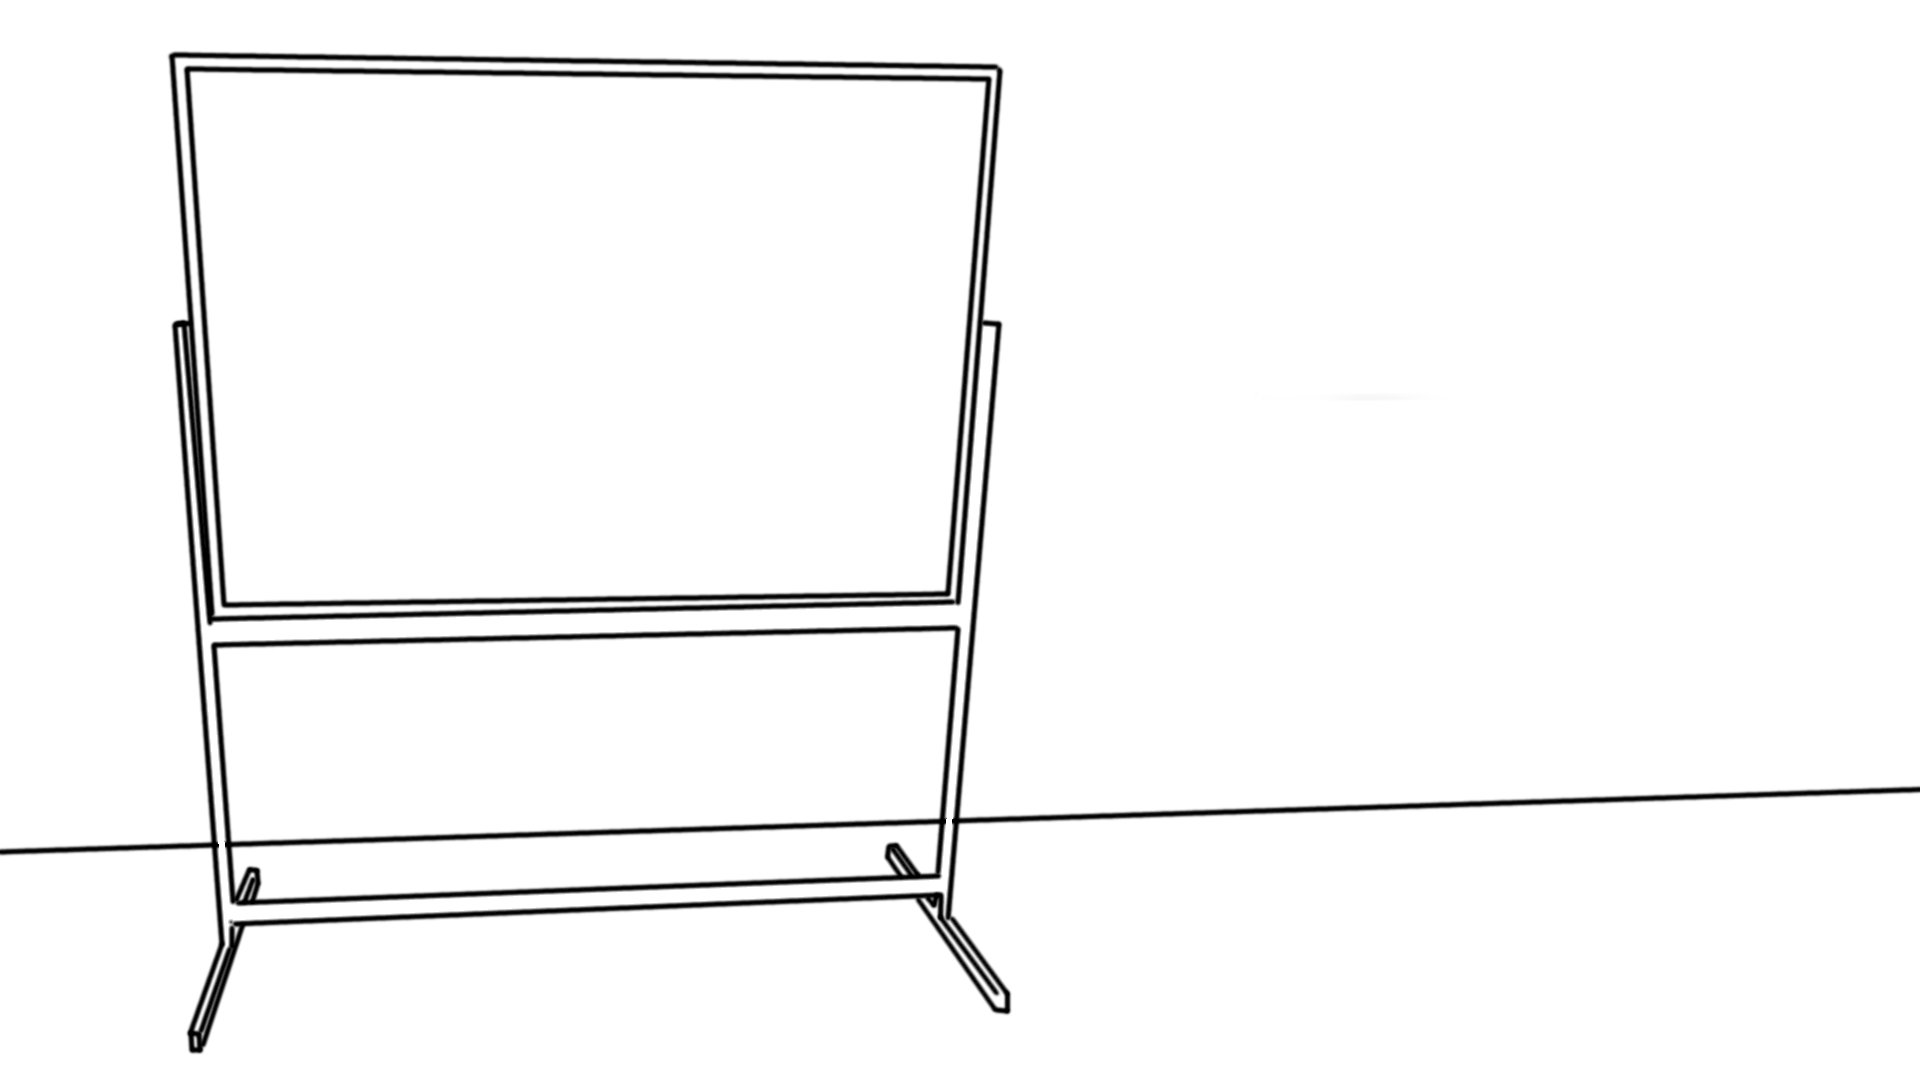
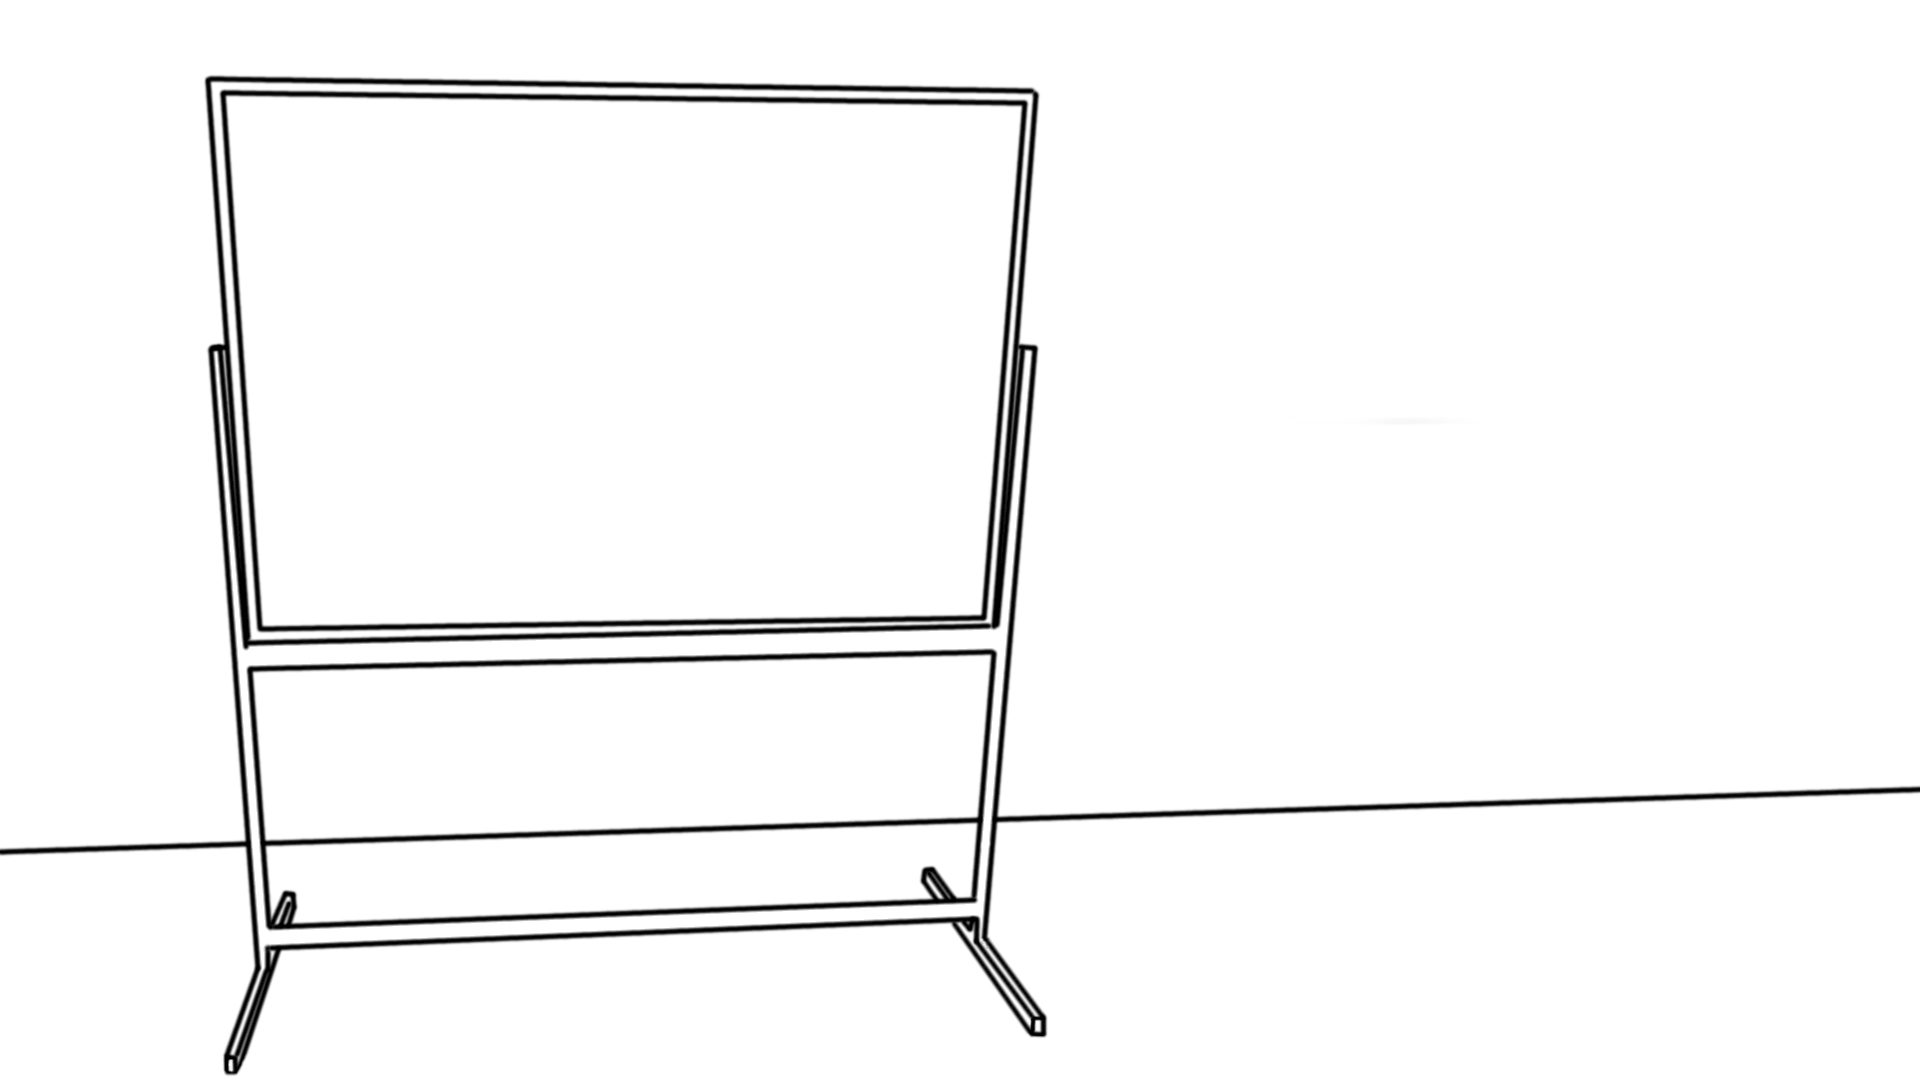
Update images for tablet, locker and whitboard screen, fix locker.

Changed region(s): [[0.0625, 0.0306, 0.5625, 1.0]]

diff --git a/core/src/com/room/game/stage1/TabletScreen.kt b/core/src/com/room/game/stage1/TabletScreen.kt
@@ -34,90 +34,90 @@ class TabletScreen(
     object Number1Button : ScreenItem(
             drawable = Drawable("tablet_screen_button1.jpg"),
             x = 450f,
-            y = 550f,
+            y = 600f,
             width = 302f,
             height = 200f,
             event = Event.NUMBER_1_BUTTON_CLICKED
     )
 
     object Number2Button : ScreenItem(
-            drawable = Drawable("tablet_screen_button1.jpg"), //TODO: replace
-            x = 800f,
-            y = 550f,
+            drawable = Drawable("tablet_screen_button2.jpg"),
+            x = 796f,
+            y = 600f,
             width = 302f,
             height = 200f,
             event = Event.NUMBER_2_BUTTON_CLICKED
     )
 
     object Number3Button : ScreenItem(
-            drawable = Drawable("tablet_screen_button1.jpg"), //TODO: replace
-            x = 1150f,
-            y = 550f,
+            drawable = Drawable("tablet_screen_button3.jpg"),
+            x = 1140f,
+            y = 600f,
             width = 302f,
             height = 200f,
             event = Event.NUMBER_3_BUTTON_CLICKED
     )
 
     object Number4Button : ScreenItem(
-            drawable = Drawable("tablet_screen_button1.jpg"), //TODO: replace
+            drawable = Drawable("tablet_screen_button4.jpg"),
             x = 450f,
-            y = 300f,
+            y = 400f,
             width = 302f,
             height = 200f,
             event = Event.NUMBER_4_BUTTON_CLICKED
     )
 
     object Number5Button : ScreenItem(
-            drawable = Drawable("tablet_screen_button1.jpg"), //TODO: replace
-            x = 800f,
-            y = 300f,
+            drawable = Drawable("tablet_screen_button5.jpg"),
+            x = 796f,
+            y = 400f,
             width = 302f,
             height = 200f,
             event = Event.NUMBER_5_BUTTON_CLICKED
     )
 
     object Number6Button : ScreenItem(
-            drawable = Drawable("tablet_screen_button1.jpg"), //TODO: replace
-            x = 1150f,
-            y = 300f,
+            drawable = Drawable("tablet_screen_button6.jpg"),
+            x = 1140f,
+            y = 400f,
             width = 302f,
             height = 200f,
             event = Event.NUMBER_6_BUTTON_CLICKED
     )
 
     object Number7Button : ScreenItem(
-            drawable = Drawable("tablet_screen_button1.jpg"), //TODO: replace
+            drawable = Drawable("tablet_screen_button7.jpg"),
             x = 450f,
-            y = 50f,
+            y = 200f,
             width = 302f,
             height = 200f,
             event = Event.NUMBER_7_BUTTON_CLICKED
     )
 
     object Number8Button : ScreenItem(
-            drawable = Drawable("tablet_screen_button1.jpg"), //TODO: replace
-            x = 800f,
-            y = 50f,
+            drawable = Drawable("tablet_screen_button8.jpg"),
+            x = 796f,
+            y = 200f,
             width = 302f,
             height = 200f,
             event = Event.NUMBER_8_BUTTON_CLICKED
     )
 
     object Number9Button : ScreenItem(
-            drawable = Drawable("tablet_screen_button1.jpg"), //TODO: replace
-            x = 1150f,
-            y = 50f,
+            drawable = Drawable("tablet_screen_button9.jpg"),
+            x = 1140f,
+            y = 200f,
             width = 302f,
             height = 200f,
             event = Event.NUMBER_9_BUTTON_CLICKED
     )
 
     object EnterButton : ScreenItem(
-            drawable = Drawable("phone.png"), //TODO: replace
-            x = 1200f,
-            y = 750f,
-            width = 302f,
-            height = 200f,
+            drawable = Drawable("tablet_screen_ok_button.jpg"),
+            x = 1160f,
+            y = 822f,
+            width = 125f,
+            height = 124f,
             event = Event.ENTER_BUTTON_CLICKED
     )
 
@@ -127,11 +127,13 @@ class TabletScreen(
     fun addDigit(newChar: Char): AddDigitResponse {
         if (passCode.length < 6) {
             passCode += newChar
+            val newScreenText = ScreenText(passCode, 746f, 876f)
+            val response = AddDigitResponse(lastScreenText, newScreenText)
+            lastScreenText = newScreenText
+            return response
+        } else {
+            return AddDigitResponse(null, null)
         }
-        val newScreenText = ScreenText(passCode, 830f, 830f)
-        val response = AddDigitResponse(lastScreenText, newScreenText)
-        lastScreenText = newScreenText
-        return response
     }
 
     fun checkPasscode(): PasscodeCheckResponse {
@@ -150,8 +152,8 @@ class TabletScreen(
     )
 
     data class AddDigitResponse(
-            val lastScreenText: ScreenText,
-            val newScreenText: ScreenText
+            val lastScreenText: ScreenText?,
+            val newScreenText: ScreenText?
     )
 
     enum class PasscodeState {

diff --git a/core/src/com/room/game/stage1/WhiteBoardScreen.kt b/core/src/com/room/game/stage1/WhiteBoardScreen.kt
@@ -27,8 +27,8 @@ class WhiteBoardScreen(
 
     object LeftScrewItem : ScreenItem(
             drawable = Drawable("whiteboard_screen_screw_left.png"),
-            x = 1216f,
-            y = 850f,
+            x = 1158f,
+            y = 840f,
             width = 71f,
             height = 91f,
             event = Event.LEFT_SCREW_CLICKED
@@ -36,7 +36,7 @@ class WhiteBoardScreen(
 
     object RightScrewItem : ScreenItem(
             drawable = Drawable("whiteboard_screen_screw_right.png"),
-            x = 1667f,
+            x = 1582f,
             y = 850f,
             width = 68f,
             height = 81f,
@@ -45,7 +45,7 @@ class WhiteBoardScreen(
 
     object TvItem : ScreenItem(
             drawable = Drawable("whiteboard_screen_tv.jpg"),
-            x = 1127f,
+            x = 1070f,
             y = 519f,
             width = 649f,
             height = 345f,
@@ -54,8 +54,8 @@ class WhiteBoardScreen(
 
     object Message134Item : ScreenItem(
             drawable = Drawable("whiteboard_screen_134.jpg"),
-            x = 1237f,
-            y = 626f,
+            x = 1160f,
+            y = 590f,
             width = 498f,
             height = 243f,
             event = Event.MESSAGE_134_CLICKED
@@ -63,8 +63,8 @@ class WhiteBoardScreen(
 
     object WhiteBoardImageItem : ScreenItem(
             drawable = Drawable("whiteboard_screen_image.jpg"),
-            x = 251f,
-            y = 525f,
+            x = 265f,
+            y = 535f,
             width = 552f,
             height = 413f,
             event = Event.WHITEBOARD_IMAGE_CLICKED
@@ -72,37 +72,37 @@ class WhiteBoardScreen(
 
     object WhiteBoardNoteItem : ScreenItem(
             drawable = Drawable("whiteboard_screen_note.jpg"),
-            x = 830f,
-            y = 304f,
+            x = 827f,
+            y = 324f,
             width = 146f,
             height = 900f,
             event = Event.WHITEBOARD_NOTE_CLICKED
     )
 
     object TvBrokenItem : ScreenItem(
-            drawable = Drawable("whiteboard_screen_tv_broken.png"),
-            x = 1100f,
-            y = 0f,
-            width = 801f,
-            height = 346f,
+            drawable = Drawable("whiteboard_screen_tv_broken.jpg"),
+            x = 1110f,
+            y = -30f,
+            width = 604f,
+            height = 263f,
             event = Event.BROKEN_TV_CLICKED
     )
 
     object TvLeftScrewItem : ScreenItem(
-            drawable = Drawable("whiteboard_screen_tv_left_screw.jpg"),
-            x = 1070f,
-            y = 560f,
-            width = 801f,
-            height = 346f,
+            drawable = Drawable("whiteboard_screen_tv_left_screw.png"),
+            x = 1080f,
+            y = 460f,
+            width = 652f,
+            height = 402f,
             event = Event.TV_ON_ONE_SCREW_CLICKED
     )
 
     object TvRightScrewItem : ScreenItem(
-            drawable = Drawable("whiteboard_screen_tv_right_screw.jpg"),
-            x = 1146f,
-            y = 400f,
-            width = 705f,
-            height = 441f,
+            drawable = Drawable("whiteboard_screen_tv_right_screw.png"),
+            x = 1100f,
+            y = 440f,
+            width = 603f,
+            height = 430f,
             event = Event.TV_ON_ONE_SCREW_CLICKED
     )
 }

diff --git a/core/src/com/room/game/stage1/Stage1.kt b/core/src/com/room/game/stage1/Stage1.kt
@@ -22,6 +22,10 @@ class Stage1(private val stageUiHandler: StageUiHandler) : Stage, EventHandler.L
 
     override val inventory: Inventory = Inventory(stageUiHandler)
 
+    init {
+        inventory.add(InventoryItem.Screwdriver)
+    }
+
     override val screens = listOf(whiteBoardScreen, lockerScreen, snowmanScreen, workplaceScreen)
 
     override var currentScreen: Screen = titleScreen
@@ -339,8 +343,12 @@ class Stage1(private val stageUiHandler: StageUiHandler) : Stage, EventHandler.L
     private fun onTabletButtonClicked(value: Char) {
         stageUiHandler.playSound(Sound("digital_button_pressed.mp3"))
         tabletScreen.addDigit(value).apply {
-            stageUiHandler.removeScreenText(lastScreenText)
-            stageUiHandler.addScreenText(newScreenText)
+            lastScreenText?.also {
+                stageUiHandler.removeScreenText(it)
+            }
+            newScreenText?.also {
+                stageUiHandler.addScreenText(it)
+            }
         }
     }
 

diff --git a/core/src/com/room/game/stage1/LockerScreen.kt b/core/src/com/room/game/stage1/LockerScreen.kt
@@ -35,18 +35,18 @@ class LockerScreen(
     object TabletItem : ScreenItem(
             drawable = Drawable("locker_screen_lock.png"),
             x = 760f,
-            y = 398f,
+            y = 404f,
             width = 309f,
             height = 244f,
             event = Event.TABLET_CLICKED
     )
 
     object InnerTabletItem : ScreenItem(
-            drawable = Drawable("locker_screen_lock.png"),
-            x = 760f,
-            y = 398f,
-            width = 309f,
-            height = 244f,
+            drawable = Drawable("locker_screen_inner_tablet.png"),
+            x = 755f,
+            y = 393f,
+            width = 336f,
+            height = 234f,
             event = Event.INNER_TABLET_CLICKED
     )
 
